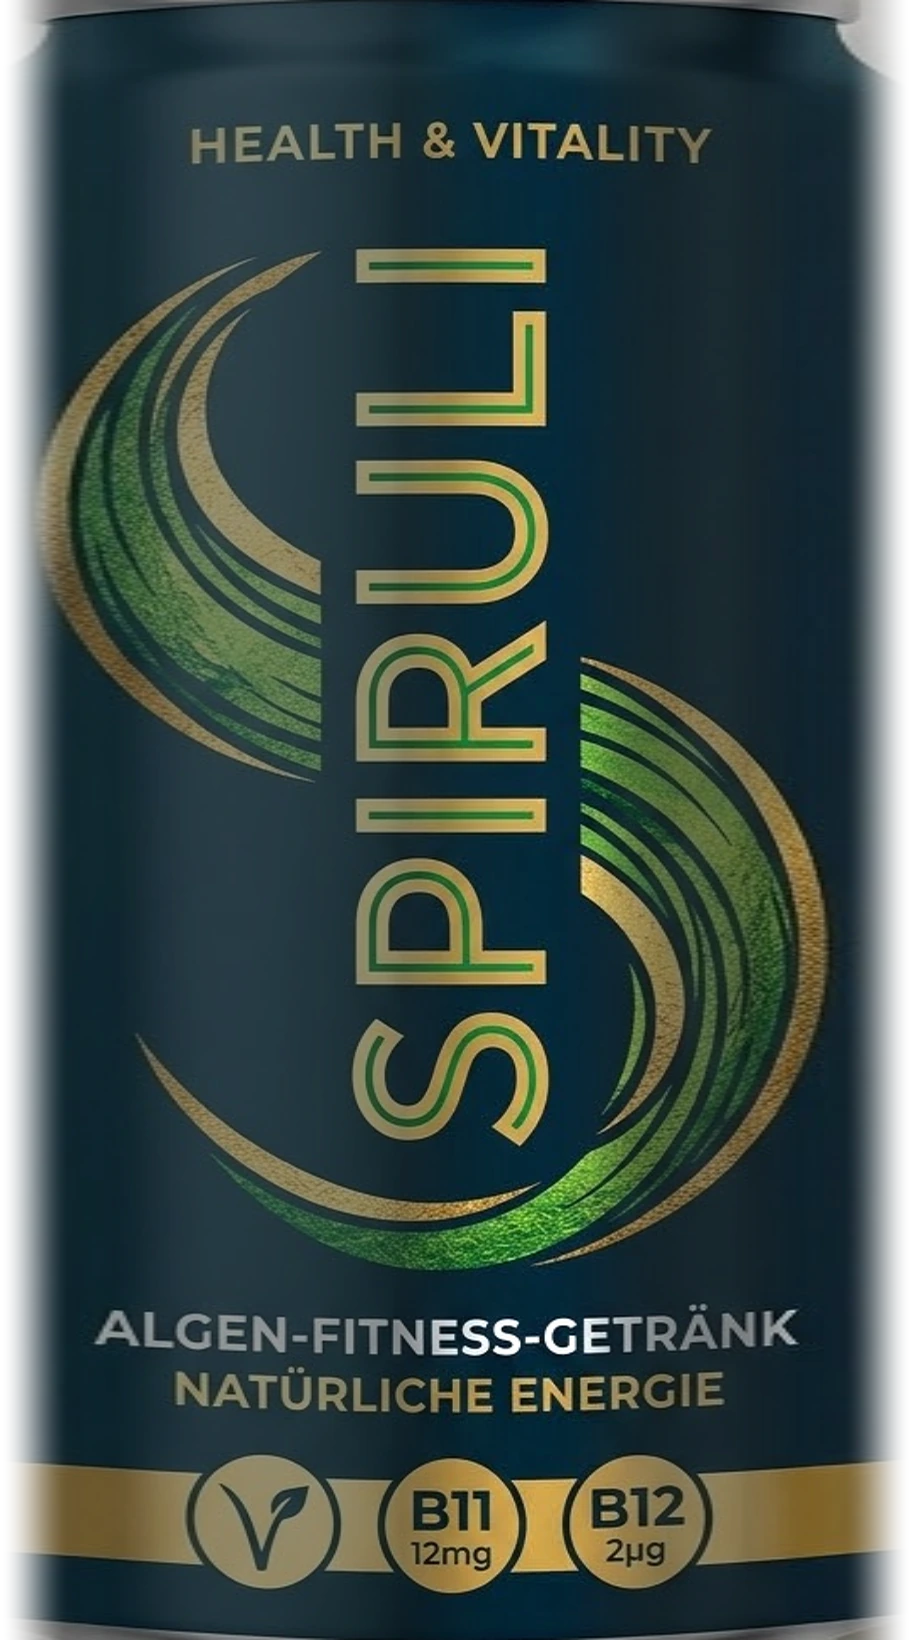
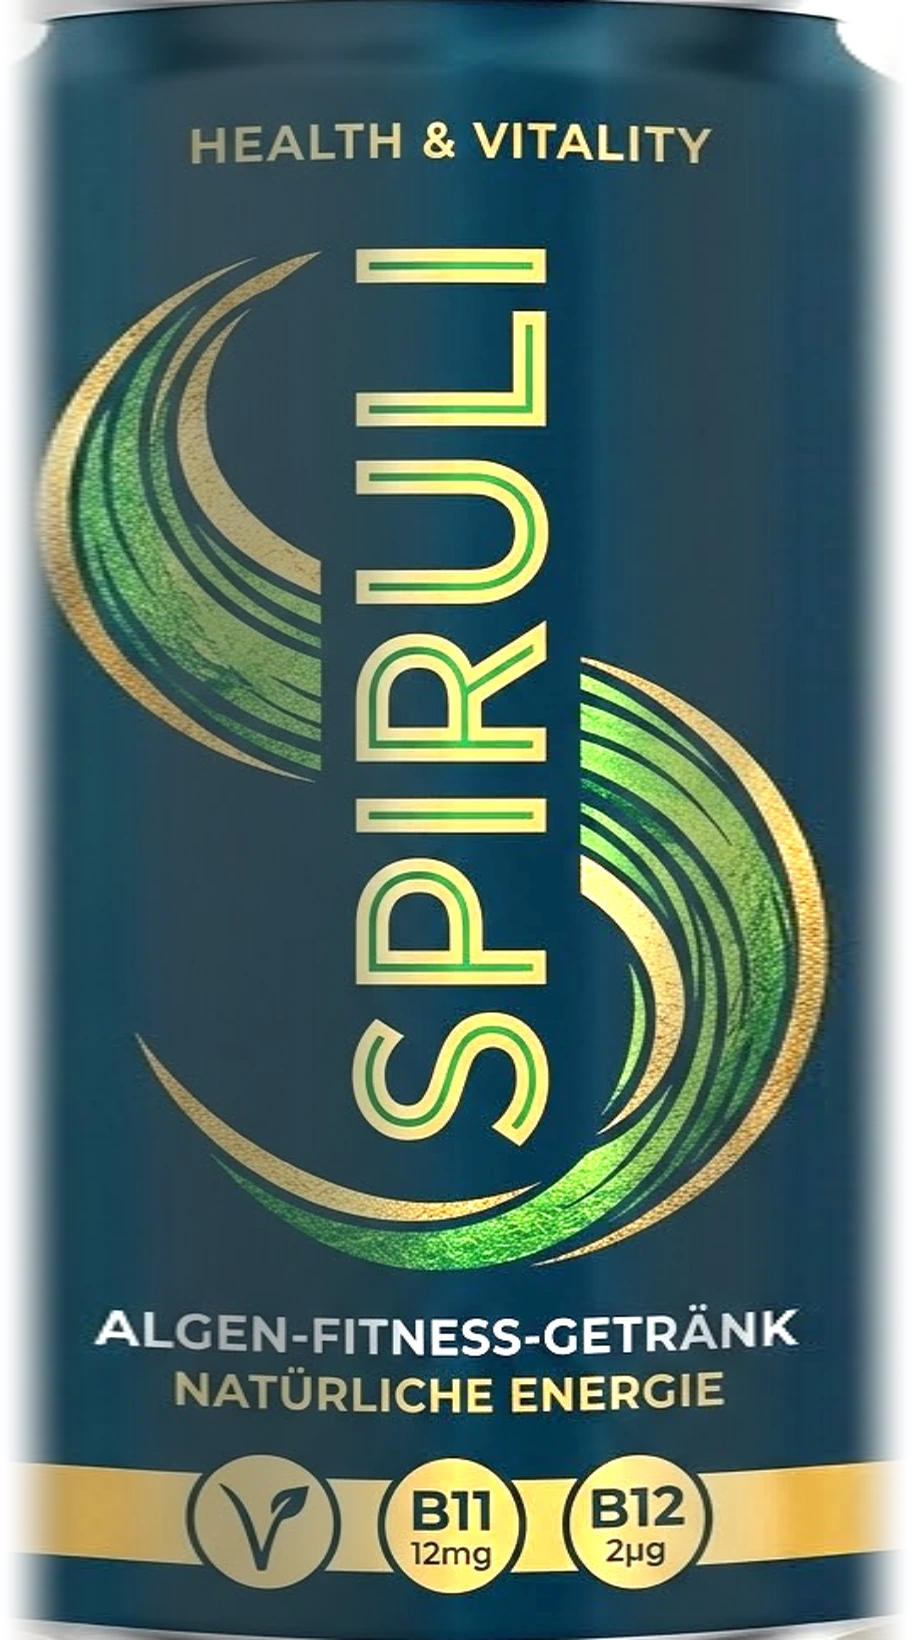
Render the can as bright as the product photo
Drive emission from the label artwork (untone-mapped) so the can keeps the
photo's colours, flatten the photo toward its lit side, lower label
metalness, brighten the aluminium and soften the left key reflection.

Claude-Session: https://claude.ai/code/session_01GvAmwFmc9i5CyZBZw1U34q

diff --git a/spiruli/components/three/SpiruliCan.tsx b/spiruli/components/three/SpiruliCan.tsx
@@ -187,12 +187,12 @@ export default function SpiruliCan({ driven, spin = 0.5, interactive = true }: P
   const alu = useMemo(
     () =>
       new THREE.MeshPhysicalMaterial({
-        color: "#c9ced2",
+        color: "#e6e9ec",
         metalness: 1,
-        roughness: 0.16,
+        roughness: 0.2,
         anisotropy: 0.6,
         clearcoat: 0.2,
-        envMapIntensity: 1,
+        envMapIntensity: 1.6,
         side: THREE.DoubleSide,
       }),
     [],
@@ -202,6 +202,12 @@ export default function SpiruliCan({ driven, spin = 0.5, interactive = true }: P
     () =>
       new THREE.MeshPhysicalMaterial({
         map: label.color,
+        // The artwork also drives emission so the can keeps the photo's
+        // colours; scene lights only add shape and highlights on top.
+        emissive: new THREE.Color("#ffffff"),
+        emissiveMap: label.color,
+        emissiveIntensity: 0.55,
+        toneMapped: false,
         roughnessMap: label.pbr,
         metalnessMap: label.pbr,
         roughness: 1,
@@ -301,7 +307,7 @@ export default function SpiruliCan({ driven, spin = 0.5, interactive = true }: P
     s.wet = THREE.MathUtils.damp(s.wet, chilled ? 1 : 0, 1.4, dt);
     labelMat.clearcoatNormalScale.setScalar(s.wet * 0.6);
     labelMat.clearcoatRoughness = 0.14 - s.wet * 0.06;
-    alu.roughness = 0.16 + s.wet * 0.1;
+    alu.roughness = 0.2 + s.wet * 0.1;
 
     const d = driven ?? restPose();
     if (group.current && tiltGroup.current) {

diff --git a/spiruli/components/three/Studio.tsx b/spiruli/components/three/Studio.tsx
@@ -26,7 +26,7 @@ export default function Studio({ accent = "#2FA35B" }: { accent?: string }) {
       <Environment resolution={256} frames={Infinity}>
         <color attach="background" args={["#071419"]} />
         <Lightformer form="rect" intensity={3} position={[0, 5, 3]} scale={[10, 2, 1]} color="#ffffff" />
-        <Lightformer form="rect" intensity={2.2} position={[-4, 0, 3]} rotation-y={Math.PI / 3} scale={[1.2, 10, 1]} color="#ffffff" />
+        <Lightformer form="rect" intensity={1.2} position={[-4, 0, 3]} rotation-y={Math.PI / 3} scale={[1.2, 10, 1]} color="#ffffff" />
         <Lightformer form="rect" intensity={1.1} position={[4.5, 0, 1]} rotation-y={-Math.PI / 2} scale={[6, 8, 1]} color="#C9A55A" />
         <Lightformer form="rect" intensity={0.8} position={[-5, 0, -2]} rotation-y={Math.PI / 2} scale={[6, 8, 1]} color={accent} />
         <Lightformer form="ring" intensity={1.5} position={[0, -4, 3]} scale={3} color="#F1E2B5" />

diff --git a/spiruli/lib/drawLabel.ts b/spiruli/lib/drawLabel.ts
@@ -22,8 +22,8 @@ export type LabelFonts = { display: string; sans: string };
  * three.js reads roughness from G and metalness from B.
  */
 const INKS = {
-  petrol: { color: "#0d2835", rough: 0.45, metal: 0.2 },
-  gold: { color: "#d8b66a", rough: 0.2, metal: 1 },
+  petrol: { color: "#153e51", rough: 0.45, metal: 0.1 },
+  gold: { color: "#d8b66a", rough: 0.22, metal: 0.65 },
   green: { color: "#5fb548", rough: 0.35, metal: 0.5 },
   white: { color: "#f3efe6", rough: 0.55, metal: 0 },
 } as const;

diff --git a/spiruli/scripts/bake-label.py b/spiruli/scripts/bake-label.py
@@ -41,7 +41,7 @@ valid = ~np.isnan(med)
 xs = np.arange(src.shape[1])
 med = np.interp(xs, xs[valid], med[valid])
 med = np.convolve(med, np.ones(15) / 15, mode="same")
-target = np.median(med[int(CX - R * 0.3) : int(CX + R * 0.3)])
+target = np.percentile(med[x0:x1], 65)
 gain = np.clip(target / np.maximum(med, 1e-3), 0.6, 1.9)
 flat = np.clip(src * gain[None, :, None], 0, 1)
 
@@ -76,7 +76,7 @@ gold = np.clip(((R_ - B_) - 0.12) / 0.15, 0, 1) * np.clip((R_ - 0.3) / 0.15, 0, 
 green = np.clip(((G_ - R_) - 0.12) / 0.12, 0, 1) * np.clip(((G_ - B_) - 0.02) / 0.1, 0, 1)
 white = np.clip((mn - 0.55) / 0.2, 0, 1) * np.clip((0.25 - sat) / 0.15, 0, 1)
 rough = 0.45 + gold * (0.22 - 0.45) + green * (0.35 - 0.45) + white * (0.55 - 0.45)
-metal = 0.2 + gold * (1 - 0.2) + green * (0.5 - 0.2) + white * (0 - 0.2)
+metal = 0.1 + gold * (0.65 - 0.1) + green * (0.3 - 0.1) + white * (0 - 0.1)
 pbr = np.dstack([np.zeros_like(rough), rough, np.clip(metal, 0, 1), alpha])
 img = Image.fromarray((pbr * 255).round().astype(np.uint8), "RGBA").filter(ImageFilter.SMOOTH)
 img.save(OUT / "front-pbr.webp", quality=90, method=6)
